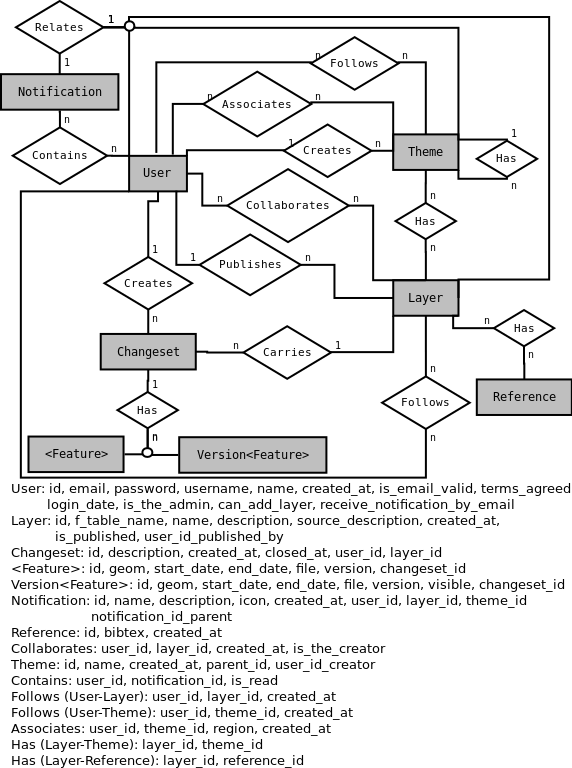
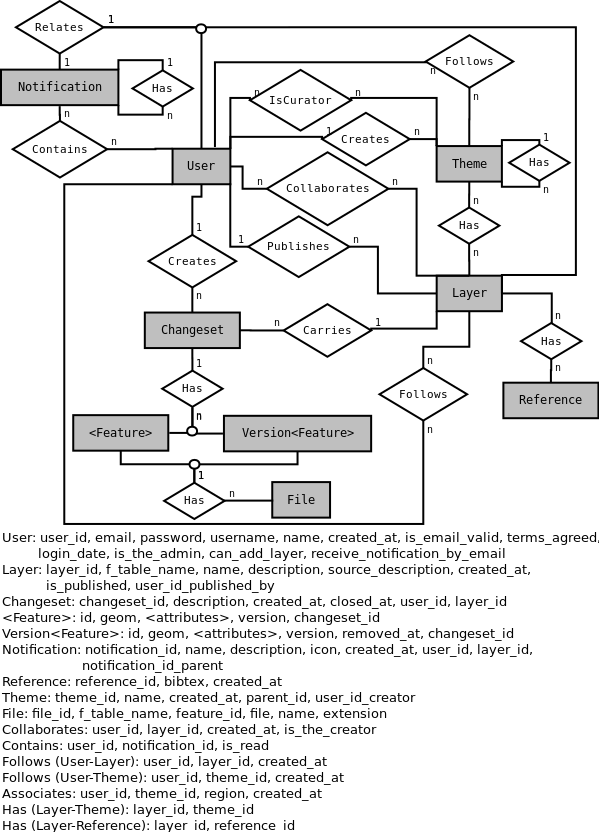
Added table file in diagram

Changed region(s): [[0.0, 0.0, 1.0, 1.0]]

diff --git a/tests/util/tester.py b/tests/util/tester.py
@@ -55,7 +55,11 @@ class UtilTester:
 
         response = self.session.get(self.URL + '/auth/login/', headers=headers)
 
-        # print("response: ", response.headers)
+        # print("\n")
+        # print("headers: ", response.headers)
+        # print("headers: ", response.headers)
+        # print("text: ", response.text)
+        # print("\n")
 
         self.ut_self.assertEqual(response.status_code, 200)
 

diff --git a/controllers/controllers/login.py b/controllers/controllers/login.py
@@ -108,6 +108,11 @@ class AuthLoginHandler(BaseHandler):
         self.auth_login(email, password)
 
         # Default: self.set_header('Content-Type', 'application/json')
+
+
+        self.set_header('Authorizationtoken', 'auth123')
+
+
         self.write(json_encode({}))
 
 
